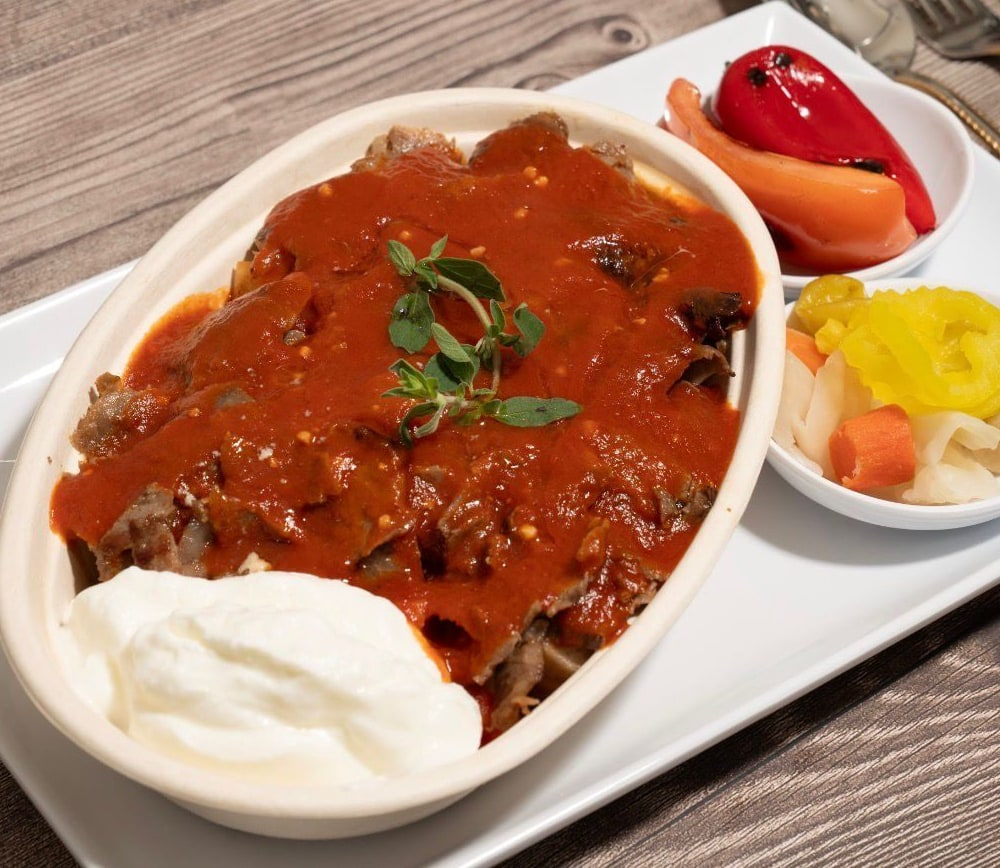
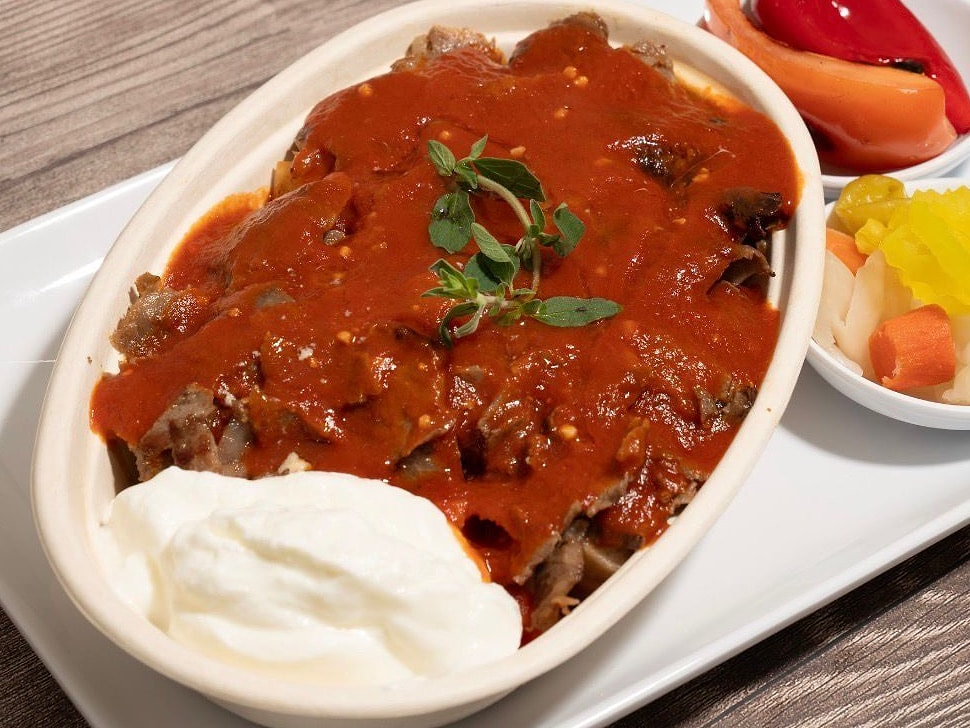
feat: reframe the two platters individually
limra: drops the sauce ramekins, napkin and gold cutlery; leads with the
döner, tomato, salad and flatbread. The plate is cut at the left in the
source, so the food carries the frame instead of the dish outline.
iskender: keeps the oval dish whole including the yogurt, with the pickle
dishes at the edge and no cutlery.

diff --git a/src/data/menu-blur.ts b/src/data/menu-blur.ts
@@ -14,11 +14,11 @@ export const BLUR: Record<string, string> = {
   "hummus-bowl":
[1 lines of base64/hex data omitted]
   "iskender-platter":
[2 lines of base64/hex data omitted]
   "limra-loaded-fries":
[1 lines of base64/hex data omitted]
   "limra-platter":
[2 lines of base64/hex data omitted]
   "medi-taco":
[1 lines of base64/hex data omitted]
   "medi-wrap":

diff --git a/src/data/menu.ts b/src/data/menu.ts
@@ -62,7 +62,7 @@ export const menu: MenuCategory[] = [
         description:
           "Carved lamb-and-beef döner, rice, chopped salad, grilled tomato and pepper, hummus, warm flatbread.",
         price: 17,
-        image: "/menu/limra-platter.jpg?v=ab0b4a83",
+        image: "/menu/limra-platter.jpg?v=69cce1d9",
         imageAlt:
           "Limra Platter, carved döner over rice with salad, grilled tomato and pepper, hummus, and grilled flatbread",
         crop: "50% 50%",
@@ -74,7 +74,7 @@ export const menu: MenuCategory[] = [
         description:
           "Sliced from the spit over cut pide, tomato-butter sauce, strained yogurt, roasted peppers.",
         price: 16,
-        image: "/menu/iskender-platter.jpg?v=3b0de7d8",
+        image: "/menu/iskender-platter.jpg?v=04d6950a",
         imageAlt:
           "İskender Platter, sliced döner over cut pide under tomato-butter sauce with strained yogurt, roasted peppers, and pickles",
         crop: "50% 50%",